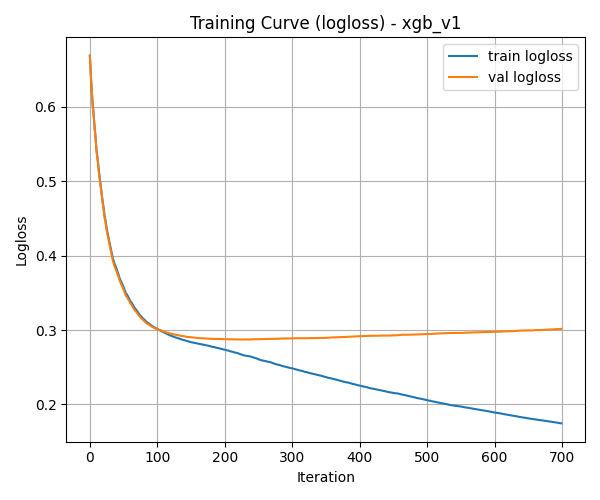
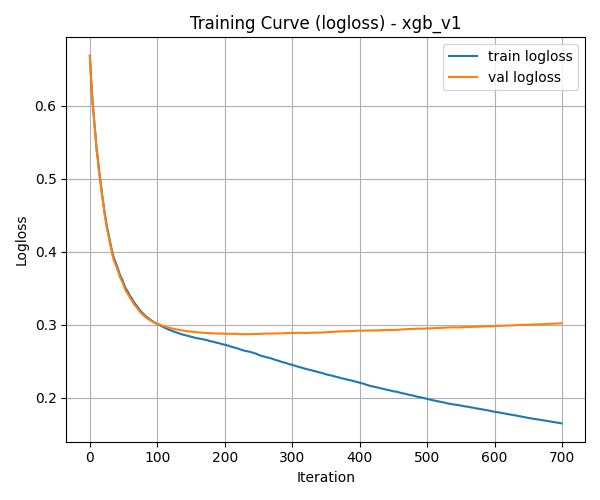
Phase-2: Implement tuned XGBoost with feature engineering, threshold optimization, evaluation metrics, and result visualizations

diff --git a/src/models/xgb_model.py b/src/models/xgb_model.py
@@ -24,13 +24,12 @@ def xgb_v1_fe_tuned():
         subsample=0.85,
         colsample_bytree=0.85,
         reg_lambda=2.5,
-       reg_alpha=0.5,
+        reg_alpha=0.5,
         random_state=42,
-        gamma= 0.2,
+        gamma= 0,
         eval_metric="logloss",
         tree_method="hist",
         colsample_bylevel=1,
-        min_child_weight=2,
-    
+        min_child_weight=1,   
     )
     return model
